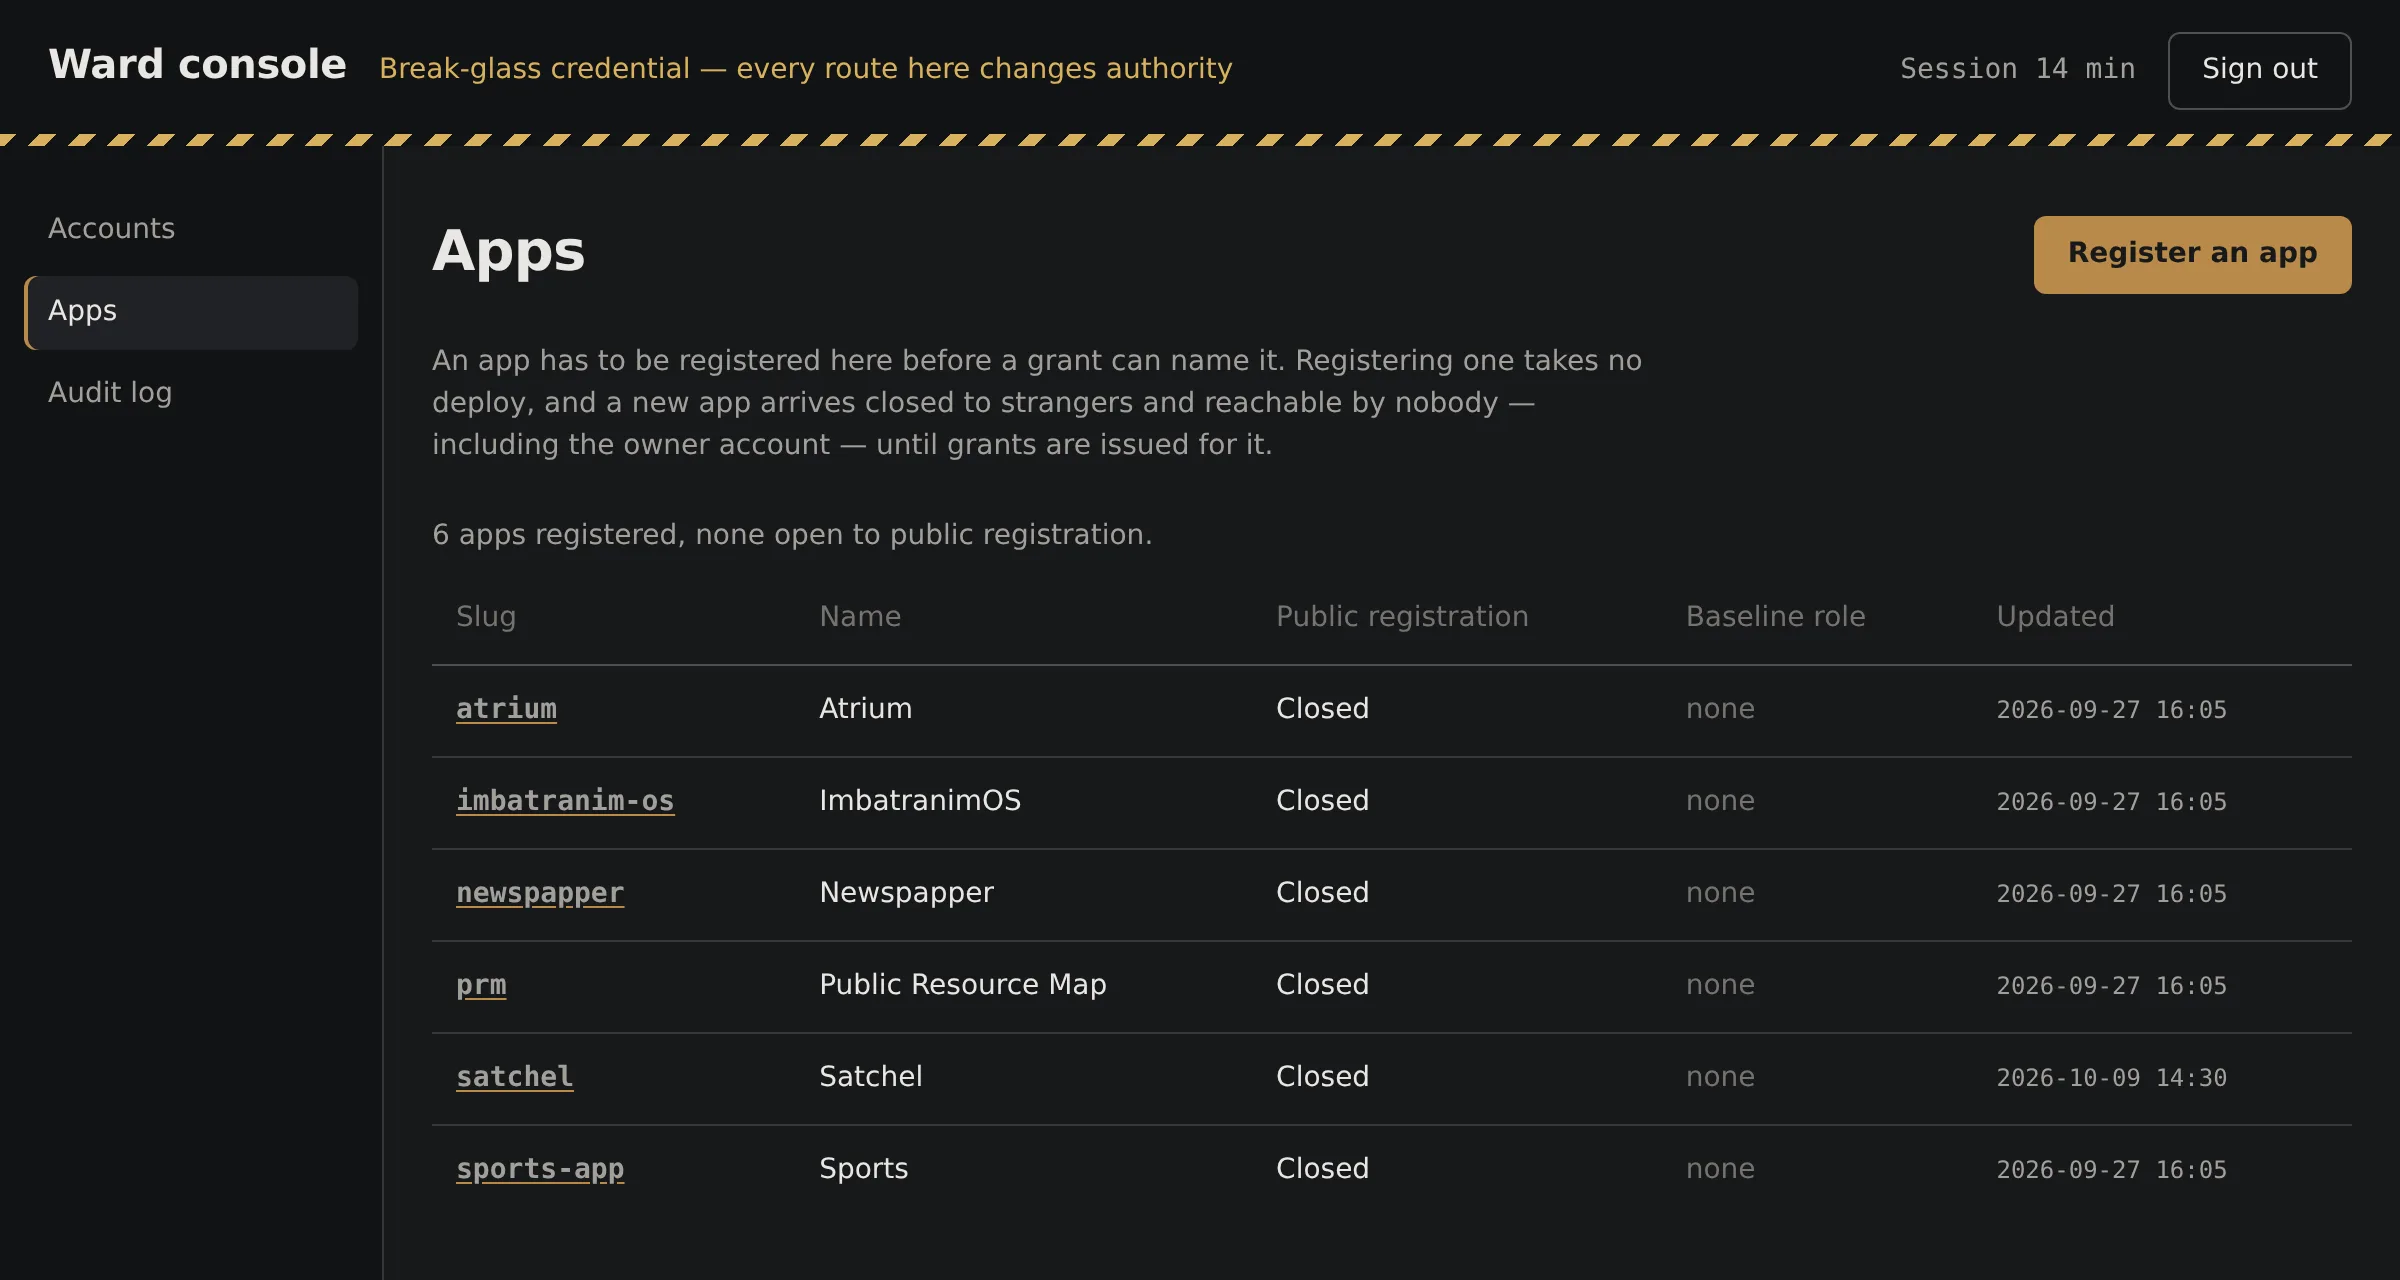
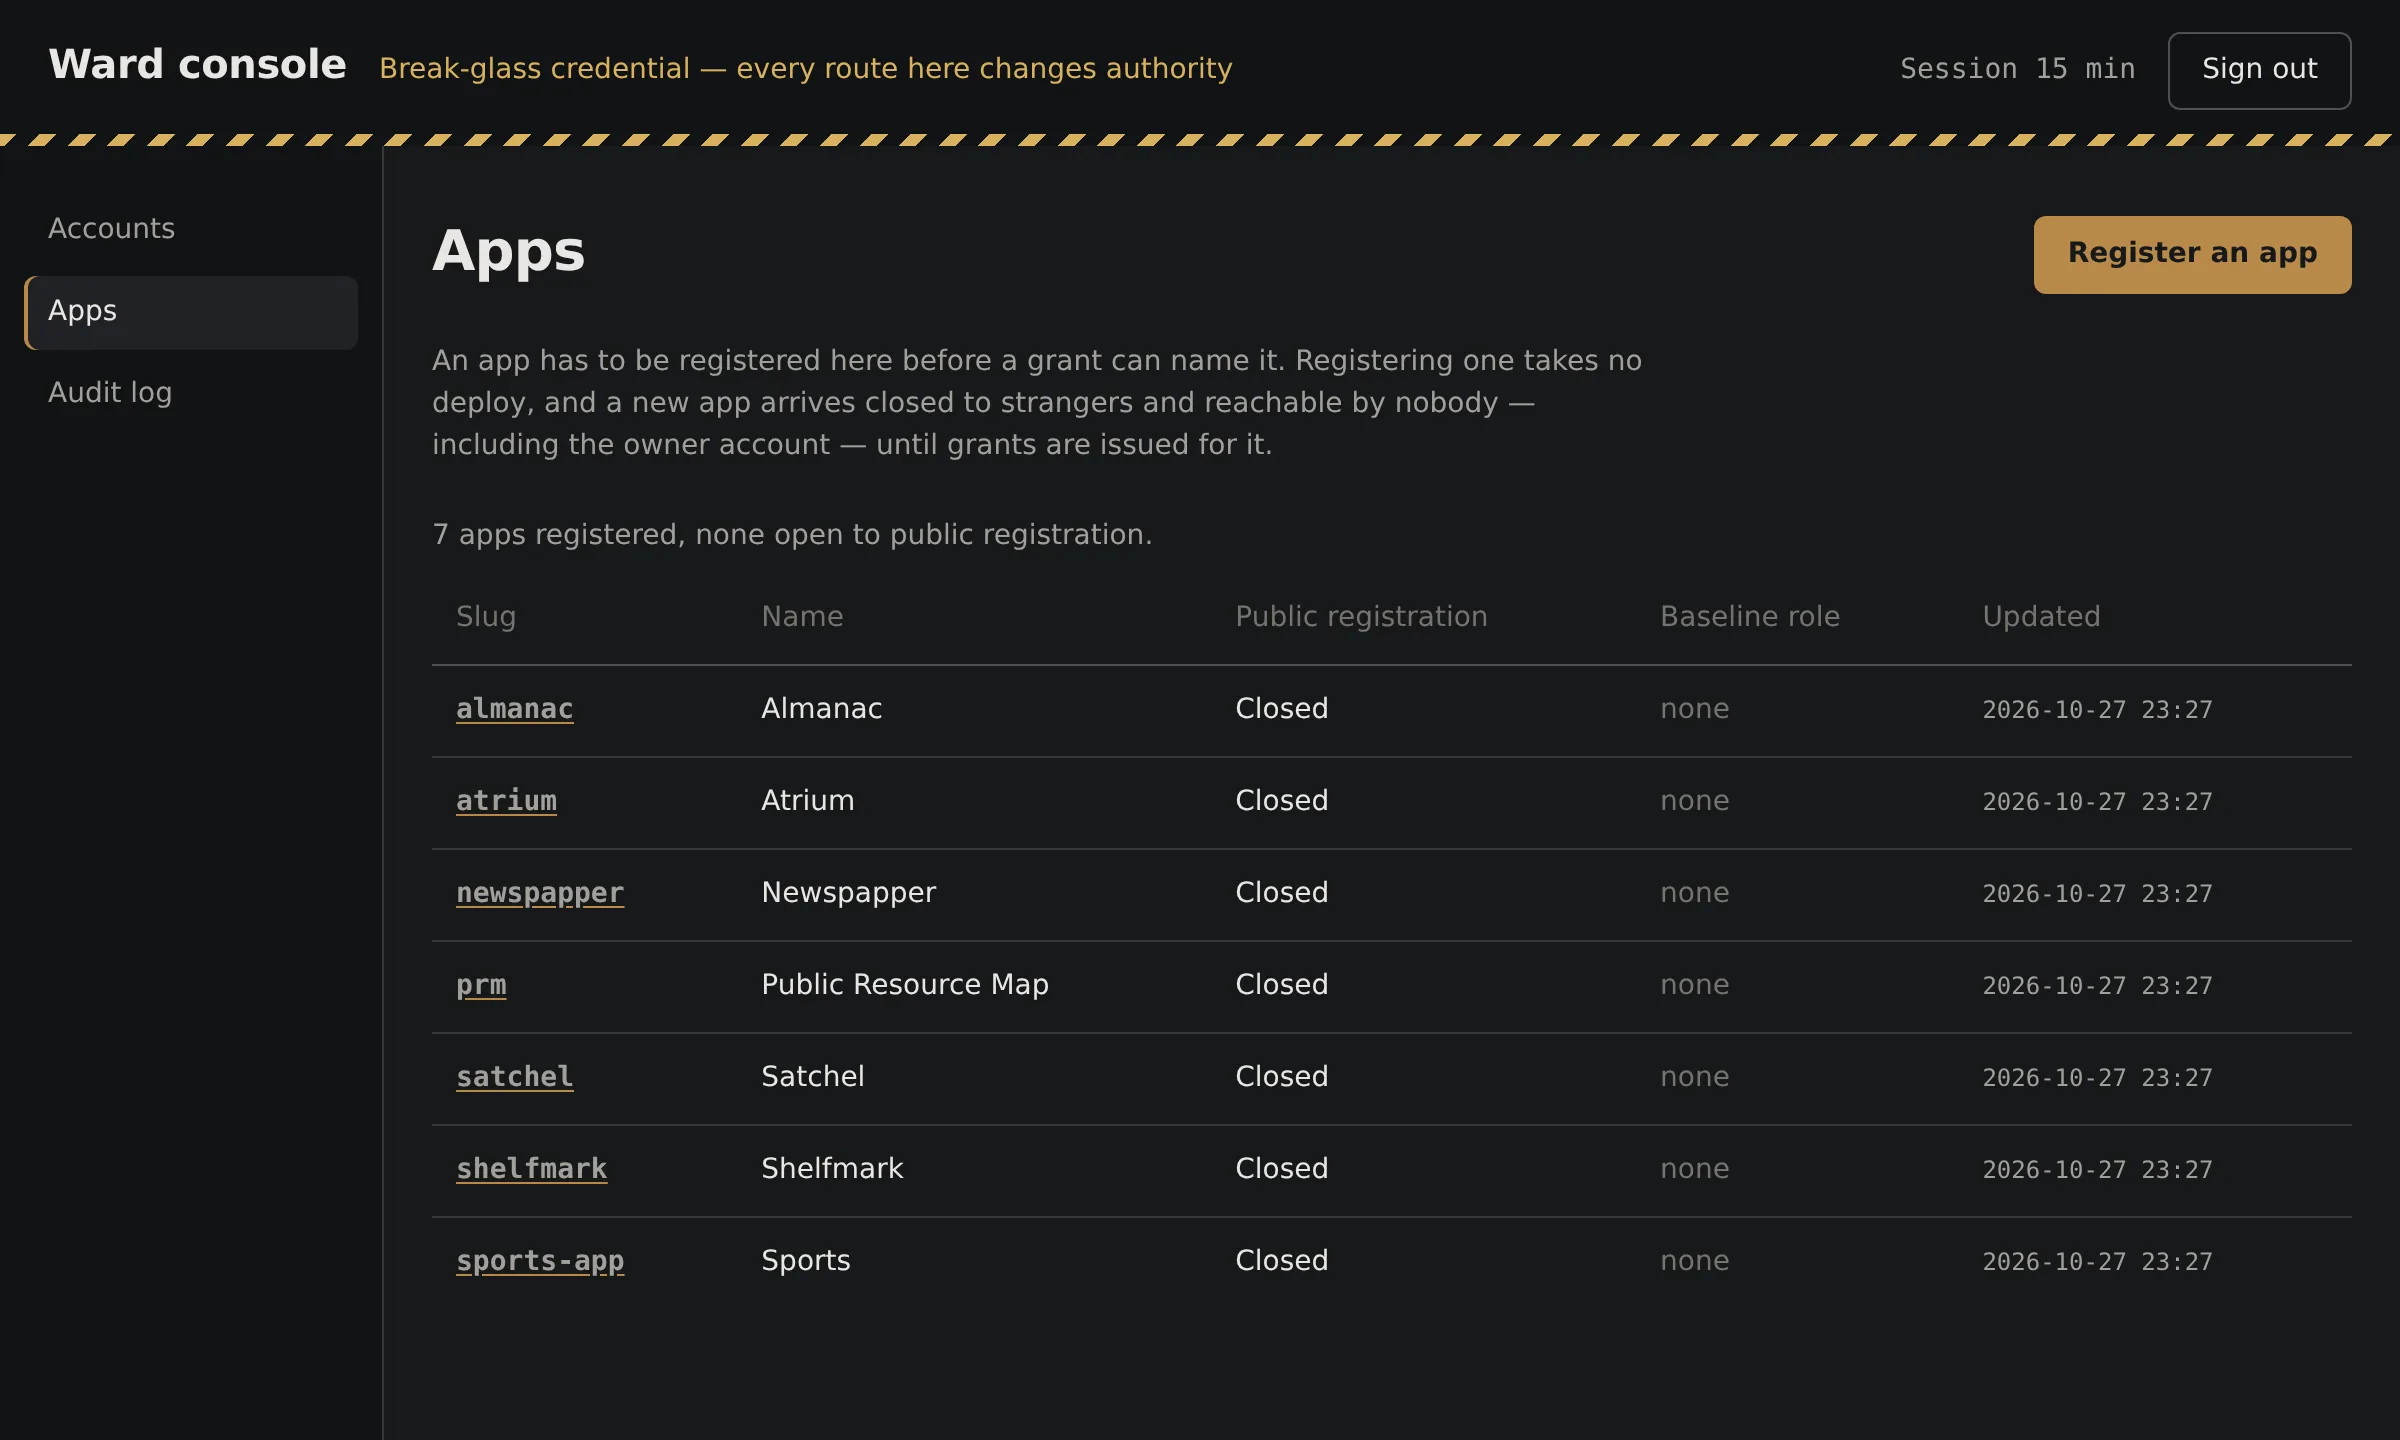
Brief 43: docs tidy, Ward's host live, Satchel's URIs, a new console shot
The README's status says Ward is on ward.<domain> since the release of
2026-10-22 rather than "with its next deploy". The cutover runbook gives
Satchel its own host's redirect and sign-out URIs, as satchel's own setup
guide registers them. console-apps.webp is retaken against a scratch API
and database with the seven apps the local seed lists, and shots.md says
how. Prettier on README.md and ui/src/lib/next.test.ts, so fmt:check
passes again.

diff --git a/ui/src/lib/next.test.ts b/ui/src/lib/next.test.ts
@@ -42,7 +42,11 @@ const ACCEPTED: ReadonlyArray<{ input: string; path: string; why: string }> = [
     path: "/register?app=prm&from=mail",
     why: "an ampersand is not a delimiter once the value is decoded",
   },
-  { input: "/account/a%20b", path: "/account/a%20b", why: "an encoded space is fine; a raw one is not" },
+  {
+    input: "/account/a%20b",
+    path: "/account/a%20b",
+    why: "an encoded space is fine; a raw one is not",
+  },
   {
     input: "/console/x/../../account",
     path: "/account",

diff --git a/README.md b/README.md
@@ -8,11 +8,12 @@ Connect provider behind that button, and a grant per app decides who may use it.
   <img src="docs/images/sign-in.webp" width="100%" alt="Ward's login page, headed 'Continue to Atrium' because the visitor came from Atrium, with Username and Password fields and a Sign in button">
 </p>
 
-**Status:** Personal project, in production since 2026-10-04 at `/ward/` on the production site. Brief 32 (2026-10-22) moves it to a host of its own, `ward.<domain>`, with its next deploy. Since
-2026-10-13 it is an OIDC provider: atrium, newspapper, public-resource-map, sports-app and
-shelfmark offer "Sign in with Ward" beside their own login, and satchel and almanac are registered
-for local development. The GitHub repo is `gandolh/ward-auth` and the folder is still
-called `wzd_auth`; the service is Ward ([why](corpus/wiki/overview.md#naming)).
+**Status:** Personal project, in production since 2026-10-04. Since the release of 2026-10-22
+(brief 32) it runs on a host of its own, `ward.<domain>`; before that it was at `/ward/` on the
+production site. Since 2026-10-13 it is an OIDC provider: atrium, newspapper, public-resource-map,
+sports-app and shelfmark offer "Sign in with Ward" beside their own login, and satchel and almanac
+are registered for local development. The GitHub repo is `gandolh/ward-auth` and the folder is
+still called `wzd_auth`; the service is Ward ([why](corpus/wiki/overview.md#naming)).
 
 ## What it does
 
@@ -41,7 +42,7 @@ The account page shows a signed-in person who they are and which apps they can r
 The admin console's app list, on a local copy of Ward. The console only accepts a break-glass login
 set in Ward's environment; no account, not even the owner's, can reach it.
 
-![Ward console on the Apps page of a local copy, captured on 2026-10-09: atrium, imbatranim-os, newspapper, prm, satchel and sports-app, all closed to public registration](docs/images/console-apps.webp)
+![Ward console on the Apps page of a local copy, captured on 2026-10-27: almanac, atrium, newspapper, prm, satchel, shelfmark and sports-app, all closed to public registration](docs/images/console-apps.webp)
 
 ## How it works
 
@@ -88,14 +89,14 @@ listed in [.env.example](.env.example).
 
 ## Project layout
 
-| Path              | What lives there                                                                             |
-| ----------------- | -------------------------------------------------------------------------------------------- |
-| `api/`            | The Fastify API: the OIDC provider, sign-in, sessions, grants, mail, the console, migrations |
+| Path              | What lives there                                                                              |
+| ----------------- | --------------------------------------------------------------------------------------------- |
+| `api/`            | The Fastify API: the OIDC provider, sign-in, sessions, grants, mail, the console, migrations  |
 | `ui/`             | The React UI at the root of `ward.<domain>`: login, register, verify, account and the console |
-| `shared-library/` | The auth library apps vendor: local accounts and "Sign in with Ward"                         |
-| `docs/`           | The docs site at `/ward/docs` (Docusaurus), plus the images in this README                   |
-| `infrastructure/` | The container image and compose file; `local/` runs Ward in Docker                           |
-| `corpus/`         | The project wiki: decisions, status and the briefs that built Ward                           |
+| `shared-library/` | The auth library apps vendor: local accounts and "Sign in with Ward"                          |
+| `docs/`           | The docs site at `/ward/docs` (Docusaurus), plus the images in this README                    |
+| `infrastructure/` | The container image and compose file; `local/` runs Ward in Docker                            |
+| `corpus/`         | The project wiki: decisions, status and the briefs that built Ward                            |
 
 ## Docs
 

diff --git a/docs/images/shots.md b/docs/images/shots.md
@@ -7,12 +7,23 @@ changes.
 | --- | --- | --- | --- | --- | --- |
 | sign-in.webp | The login page as an app's visitor sees it | press "Sign in with Ward" on a local atrium's login page, which lands on `/ward/login?oidc=<uid>` headed "Continue to Atrium"; then blur the focused field | 840×620 @2x | none, empty form | 2026-10-09 |
 | account.webp | The account page: who you are, what you can reach | sign in as the atrium tester account, open `/ward/account` | 1000×560 @2x | local tester account | 2026-10-09 |
-| console-apps.webp | The admin console's app list | sign in at `/ward/console` with the break-glass login, open Apps | 1200×640 @2x | apps registered by `infrastructure/local/seed.mjs` | 2026-10-09 |
+| console-apps.webp | The admin console's app list | on a scratch copy (below), sign in at `/console` with its break-glass login, open Apps, then blur the focused link | 1200×720 @2x | the seven apps `infrastructure/local/seed.mjs` lists, registered closed | 2026-10-27 |
 
-All three come from the local Ward in Docker
-([infrastructure/local/README.md](../../infrastructure/local/README.md)), not from production. The
-console shot lists what that copy's database holds, so it can include apps that are registered but
-no longer, or not yet, signing in through Ward.
+sign-in.webp and account.webp come from the local Ward in Docker
+([infrastructure/local/README.md](../../infrastructure/local/README.md)), and console-apps.webp from
+a scratch copy. None comes from production.
+
+console-apps.webp was retaken on 2026-10-27 against a scratch API, so it shows only the apps
+registered for the shot, not whatever a long-lived database still holds. The recipe: make a
+temporary directory, write a throwaway signing key into it with
+`npx tsx api/src/tokens/keygen.ts <dir>/signing-key.pem`, and start `npx tsx api/src/index.ts` from
+the repo root with `PORT=8791`, `WARD_DB_PATH`, `WARD_SIGNING_KEY_PATH` and `WARD_MAIL_FILE_DIR`
+inside that directory, `WARD_MAIL_TRANSPORT=file`, `WARD_PUBLIC_ORIGIN=http://localhost:5199`, and a
+made-up `WARD_ADMIN_USERNAME` and `WARD_ADMIN_PASSWORD` passed in the environment, never written
+into the repo. Start the UI with `npx vite --port 5199` in `ui/`; its dev server proxies
+`/ward-api` to port 8791. Sign in with `POST /ward-api/console/login`, register each app with
+`POST /ward-api/console/apps` (`{ slug, name }`), take the shot, then stop both and delete the
+directory. Seven rows need the 720 px viewport.
 
 sign-in.webp was taken on 2026-10-09 through the old `?next=/atrium/` link. Since brief 30
 (2026-10-13) `?next=` accepts only Ward's own pages and the "Continue to" heading appears only for

diff --git a/docs/cutover-oidc.md b/docs/cutover-oidc.md
@@ -13,7 +13,9 @@ next Ward deploy (step 9).
 below as `https://ward.<domain>` and `<origin>/ward-api` as
 `https://ward.<domain>/ward-api`: the console is at `https://ward.<domain>/console`,
 and every app's `WARD_OIDC_ISSUER` is `https://ward.<domain>/ward-api/oidc`.
-The apps' own redirect URIs did not change.
+Ward's move changed no app's redirect URIs. Satchel's changed with its own move
+to the root of `satchel.<domain>` (satchel's brief 15, the same day), so its row
+in step 4 is written out in full.
 
 Every step here is yours to run. The deploy configuration is already in
 vps-deploy: `stacks/ward.ts`, the five app stacks, and the `useWard` lines in
@@ -202,7 +204,7 @@ and save:
 | `newspapper` | `<origin>/newspapper/api/auth/ward/callback` | `<origin>/newspapper/` |
 | `prm` | `<origin>/prm-api/auth/ward/callback` | `<origin>/prm/` |
 | `sports-app` | `<origin>/sports-app-api/api/auth/ward/callback` | `<origin>/sports-app/` |
-| `satchel` | `<origin>/satchel-api/auth/ward/callback` | `<origin>/satchel/` |
+| `satchel` | `https://satchel.<domain>/satchel-api/auth/ward/callback` | `https://satchel.<domain>/` |
 | `shelfmark` | `<origin>/shelfmark-api/auth/ward/callback` | `<origin>/shelfmark/` |
 | `almanac` | `<origin>/almanac-api/auth/ward/callback` | `<origin>/almanac/` |
 
